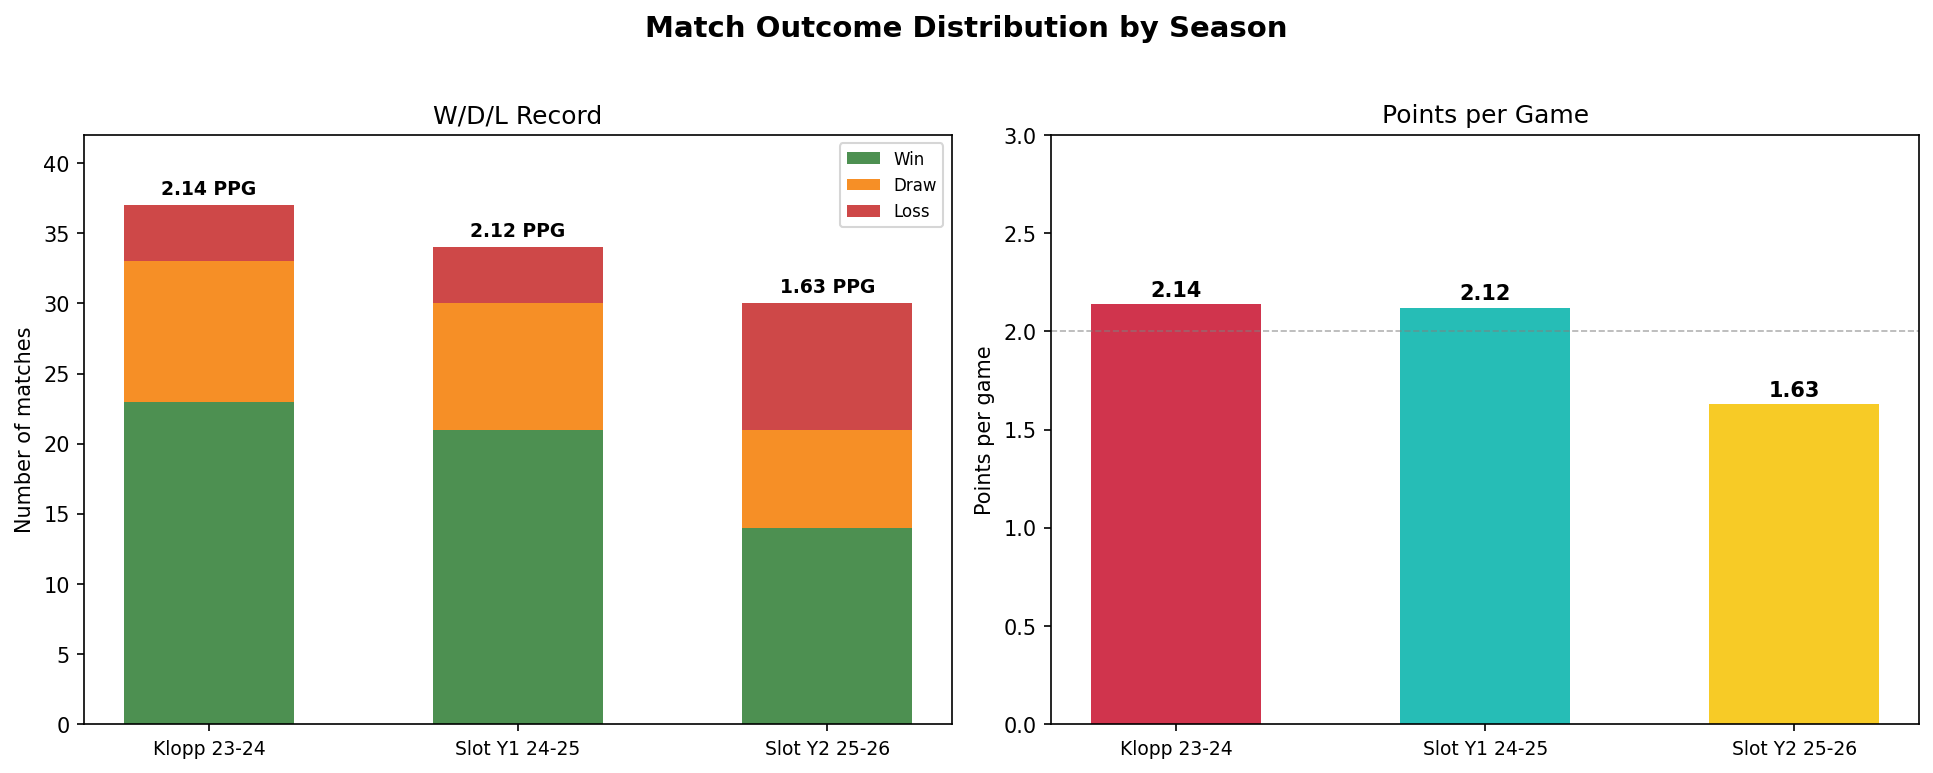
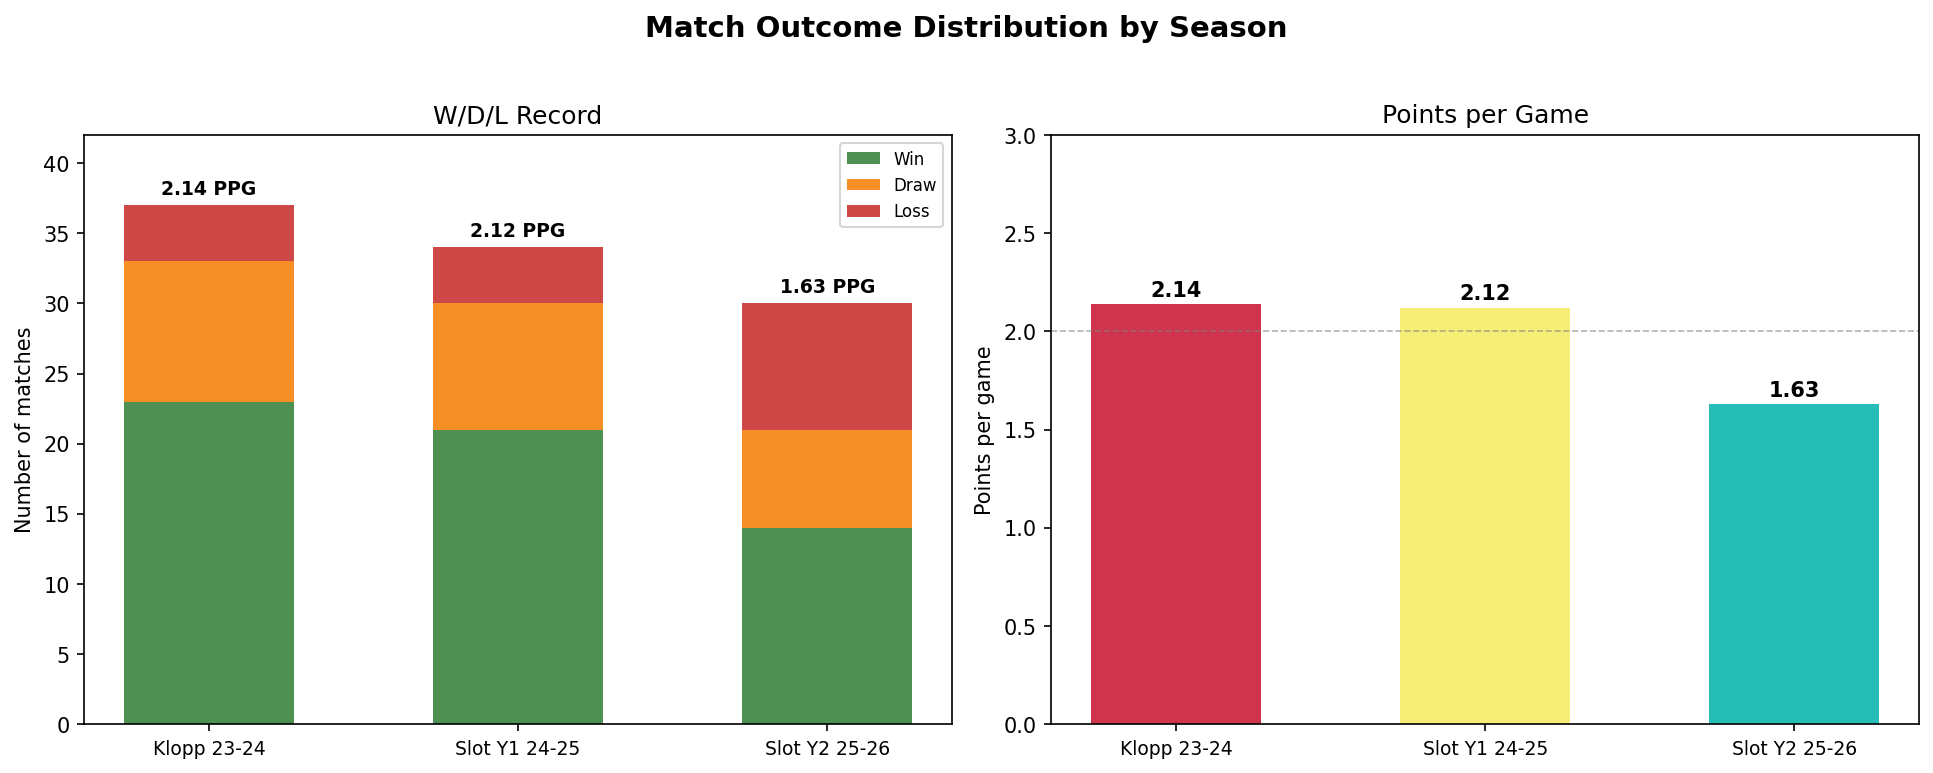
fix: address adversarial review — MW-U tests, Bonferroni threshold, colour palette, dead code
- Replace stats.ttest_ind with mannwhitneyu (mw_test from notebook_helpers)
  in scripts 01 and 02 — project standard throughout
- Fix Bonferroni threshold in script 02 game-state tests: 0.05/3 not 0.05/44
- Align SEASON_COLORS in scripts 01+02 with canonical notebook_helpers palette
  (Y1=#f6eb61, Y2=#00b2a9 — previously inverted)
- Replace dead defensive_actions double-assignment in script 03 with single
  explicit column-guard logic
- Add limitation comment on (fixture × game_state) unit of observation in
  script 02 ball-territory test

Changed region(s): [[0.7139, 0.3726, 0.8381, 0.9625], [0.8691, 0.4968, 0.9933, 0.9625]]

diff --git a/scripts/analysis/02_game_state_tactics.py b/scripts/analysis/02_game_state_tactics.py
@@ -22,13 +22,14 @@ LIVERPOOL_ID = 8
 SEASON_LABELS = {21646: "Klopp 23-24", 23614: "Slot Y1 24-25", 25583: "Slot Y2 25-26"}
 SEASON_SHORT = {21646: "Klopp", 23614: "Y1", 25583: "Y2"}
 SEASON_IDS = [21646, 23614, 25583]
-SEASON_COLORS = {21646: "#C8102E", 23614: "#00B2A9", 25583: "#F6C200"}
+SEASON_COLORS = {21646: "#c8102e", 23614: "#f6eb61", 25583: "#00b2a9"}
 STATE_COLORS = {"WIN": "#2E7D32", "DRAW": "#F57C00", "LOSS": "#C62828"}
 STATE_ORDER = ["WIN", "DRAW", "LOSS"]
 
 from liverpool_strategy.analysis.game_state import (
     get_lfc_is_home, reconstruct_game_states, get_state_at_minute, final_score
 )
+from liverpool_strategy.analysis.notebook_helpers import cohens_d, effect_label, mw_test
 
 # ── Load fixture metadata ─────────────────────────────────────────────────────
 fixture_map = pd.read_csv(METADATA_DIR / "fixture_season_mapping.csv")
@@ -345,29 +346,25 @@ print(f"Saved {FIG_DIR / 'lead_management.png'}")
 # ── Statistical tests ─────────────────────────────────────────────────────────
 print("\n=== STATISTICAL TESTS — % of match time in WIN state ===")
 
+# Bonferroni threshold for 3 game-state comparisons (WIN%, DRAW%, LOSS%)
+ALPHA_GAME_STATE = 0.05 / 3
+
 klopp_win = trans_df[trans_df["season_id"] == 21646]["pct_win"].values
 y1_win    = trans_df[trans_df["season_id"] == 23614]["pct_win"].values
 y2_win    = trans_df[trans_df["season_id"] == 25583]["pct_win"].values
 
-t, p = stats.ttest_ind(klopp_win, y2_win, equal_var=False)
-d = (np.mean(klopp_win) - np.mean(y2_win)) / np.sqrt(
-    (np.std(klopp_win, ddof=1)**2 + np.std(y2_win, ddof=1)**2) / 2
-)
+U, p, d = mw_test(klopp_win, y2_win)
 print(f"\n[CONFIRMATORY] Klopp vs Slot Y2 — % time winning")
 print(f"  Klopp: {np.mean(klopp_win):.1%} +/- {np.std(klopp_win, ddof=1):.1%}")
 print(f"  Slot Y2: {np.mean(y2_win):.1%} +/- {np.std(y2_win, ddof=1):.1%}")
-print(f"  Welch t={t:.3f}, p={p:.4f}, d={d:.2f}")
-print(f"  Conservative threshold (a/44=0.00114): {'SIGNIFICANT' if p < 0.00114 else 'not significant'}")
-print(f"  Notebook-family threshold (a/3=0.017):  {'SIGNIFICANT' if p < 0.017 else 'not significant'}")
+print(f"  Mann-Whitney U={U:.1f}, p={p:.4f}, d={d:.2f}")
+print(f"  Game-state threshold (a/3={ALPHA_GAME_STATE:.4f}): {'SIGNIFICANT' if p < ALPHA_GAME_STATE else 'not significant'}")
 
-t2, p2 = stats.ttest_ind(y1_win, y2_win, equal_var=False)
-d2 = (np.mean(y1_win) - np.mean(y2_win)) / np.sqrt(
-    (np.std(y1_win, ddof=1)**2 + np.std(y2_win, ddof=1)**2) / 2
-)
+U2, p2, d2 = mw_test(y1_win, y2_win)
 print(f"\n[EXPLORATORY] Slot Y1 vs Slot Y2 — % time winning")
 print(f"  Slot Y1: {np.mean(y1_win):.1%} +/- {np.std(y1_win, ddof=1):.1%}")
 print(f"  Slot Y2: {np.mean(y2_win):.1%} +/- {np.std(y2_win, ddof=1):.1%}")
-print(f"  Welch t={t2:.3f}, p={p2:.4f}, d={d2:.2f}")
+print(f"  Mann-Whitney U={U2:.1f}, p={p2:.4f}, d={d2:.2f}")
 print(f"  Nominal p < 0.05 -> {'directional signal' if p2 < 0.05 else 'no signal'}")
 
 klopp_loss = trans_df[trans_df["season_id"] == 21646]["pct_loss"].values
@@ -375,15 +372,12 @@ y1_loss    = trans_df[trans_df["season_id"] == 23614]["pct_loss"].values
 y2_loss    = trans_df[trans_df["season_id"] == 25583]["pct_loss"].values
 
 print("\n--- % time losing ---")
-t3, p3 = stats.ttest_ind(klopp_loss, y2_loss, equal_var=False)
-d3 = (np.mean(y2_loss) - np.mean(klopp_loss)) / np.sqrt(
-    (np.std(klopp_loss, ddof=1)**2 + np.std(y2_loss, ddof=1)**2) / 2
-)
+U3, p3, d3 = mw_test(klopp_loss, y2_loss)
 print(f"\n[CONFIRMATORY] Klopp vs Slot Y2 — % time losing")
 print(f"  Klopp: {np.mean(klopp_loss):.1%} +/- {np.std(klopp_loss, ddof=1):.1%}")
 print(f"  Slot Y2: {np.mean(y2_loss):.1%} +/- {np.std(y2_loss, ddof=1):.1%}")
-print(f"  Welch t={t3:.3f}, p={p3:.4f}, d={d3:.2f}")
-print(f"  Conservative threshold (a/44=0.00114): {'SIGNIFICANT' if p3 < 0.00114 else 'not significant'}")
+print(f"  Mann-Whitney U={U3:.1f}, p={p3:.4f}, d={d3:.2f}")
+print(f"  Game-state threshold (a/3={ALPHA_GAME_STATE:.4f}): {'SIGNIFICANT' if p3 < ALPHA_GAME_STATE else 'not significant'}")
 
 # ── Part 4: Goals by Game State ───────────────────────────────────────────────
 goal_state_records = []
@@ -551,6 +545,8 @@ fixture_zone_state = (
     .reset_index()
 )
 
+# Note: unit of observation is (fixture × game_state) — a match with WIN and DRAW intervals
+# contributes two rows. This inflates n relative to a pure per-fixture design.
 # Test: attacking_third % when winning — Klopp vs Y2
 if "attacking_third" in fixture_zone_state.columns:
     win_data = fixture_zone_state[fixture_zone_state["game_state"] == "WIN"]

diff --git a/scripts/analysis/01_statistical_comparison.py b/scripts/analysis/01_statistical_comparison.py
@@ -10,6 +10,7 @@ import matplotlib.pyplot as plt
 import matplotlib.patches as mpatches
 import seaborn as sns
 import warnings
+from liverpool_strategy.analysis.notebook_helpers import cohens_d, effect_label, mw_test
 
 warnings.filterwarnings('ignore')
 
@@ -23,7 +24,7 @@ LIVERPOOL_ID = 8
 SEASON_LABELS = {21646: "Klopp 23-24", 23614: "Slot Y1 24-25", 25583: "Slot Y2 25-26"}
 SEASON_SHORT = {21646: "Klopp", 23614: "Y1", 25583: "Y2"}
 SEASON_IDS = [21646, 23614, 25583]
-SEASON_COLORS = {21646: "#C8102E", 23614: "#00B2A9", 25583: "#F6C200"}
+SEASON_COLORS = {21646: "#c8102e", 23614: "#f6eb61", 25583: "#00b2a9"}
 
 # ── Load fixture metadata ─────────────────────────────────────────────────────
 fixture_map = pd.read_csv(METADATA_DIR / "fixture_season_mapping.csv")
@@ -60,12 +61,10 @@ print("\nSeason means (sample):")
 print(season_means.T.head(10))
 
 # ── Helper functions ──────────────────────────────────────────────────────────
-def cohen_d(a, b):
-    pooled_std = np.sqrt((np.std(a, ddof=1)**2 + np.std(b, ddof=1)**2) / 2)
-    return (np.mean(a) - np.mean(b)) / pooled_std if pooled_std > 0 else 0
+BONFERRONI_N = 44  # 44-metric family for confirmatory tests
 
 def run_tests(wide, sid_a, sid_b, label_a, label_b, stat_cols):
-    n_tests = len(stat_cols)
+    n_tests = BONFERRONI_N
     results = []
     g_a = wide[wide["season_id"] == sid_a]
     g_b = wide[wide["season_id"] == sid_b]
@@ -74,8 +73,7 @@ def run_tests(wide, sid_a, sid_b, label_a, label_b, stat_cols):
         b = g_b[col].dropna()
         if len(a) < 3 or len(b) < 3:
             continue
-        _, p = stats.ttest_ind(a, b, equal_var=False)
-        d = cohen_d(a.values, b.values)
+        U, p, d = mw_test(a.values, b.values)
         results.append({
             "metric": col,
             "mean_a": round(a.mean(), 2),
@@ -262,12 +260,9 @@ for metric, label in [
     ("mean_attack_duration_mins", "Mean Attack Duration (mins)"),
 ]:
     a_k, a_y1, a_y2 = klopp[metric].dropna(), y1[metric].dropna(), y2[metric].dropna()
-    _, p_k_y1 = stats.ttest_ind(a_k, a_y1, equal_var=False)
-    _, p_k_y2 = stats.ttest_ind(a_k, a_y2, equal_var=False)
-    _, p_y1_y2 = stats.ttest_ind(a_y1, a_y2, equal_var=False)
-    d_k_y1 = cohen_d(a_k.values, a_y1.values)
-    d_k_y2 = cohen_d(a_k.values, a_y2.values)
-    d_y1_y2 = cohen_d(a_y1.values, a_y2.values)
+    _, p_k_y1, d_k_y1 = mw_test(a_k.values, a_y1.values)
+    _, p_k_y2, d_k_y2 = mw_test(a_k.values, a_y2.values)
+    _, p_y1_y2, d_y1_y2 = mw_test(a_y1.values, a_y2.values)
     print(f"\n{label}")
     print(f"  Klopp {a_k.mean():.2f} | Y1 {a_y1.mean():.2f} | Y2 {a_y2.mean():.2f}")
     print(f"  Klopp->Y1: p={p_k_y1:.3f}, d={d_k_y1:.3f} | Klopp->Y2: p={p_k_y2:.3f}, d={d_k_y2:.3f}")

diff --git a/scripts/analysis/03_pressing_analysis.py b/scripts/analysis/03_pressing_analysis.py
@@ -75,13 +75,19 @@ fixture_metrics = pivot.pivot_table(
     aggfunc='first'
 ).reset_index()
 
-fixture_metrics['defensive_actions'] = (
-    fixture_metrics.get('tackles', pd.Series(dtype=float)).fillna(0) +
-    fixture_metrics.get('interceptions', pd.Series(dtype=float)).fillna(0)
-)
-# Fix: use column-based approach
-if 'tackles' in fixture_metrics.columns and 'interceptions' in fixture_metrics.columns:
-    fixture_metrics['defensive_actions'] = fixture_metrics['tackles'].fillna(0) + fixture_metrics['interceptions'].fillna(0)
+has_tackles = 'tackles' in fixture_metrics.columns
+has_interceptions = 'interceptions' in fixture_metrics.columns
+
+if has_tackles and has_interceptions:
+    fixture_metrics['defensive_actions'] = (
+        fixture_metrics['tackles'].fillna(0) + fixture_metrics['interceptions'].fillna(0)
+    )
+elif has_tackles:
+    fixture_metrics['defensive_actions'] = fixture_metrics['tackles'].fillna(0)
+elif has_interceptions:
+    fixture_metrics['defensive_actions'] = fixture_metrics['interceptions'].fillna(0)
+else:
+    fixture_metrics['defensive_actions'] = 0.0
 
 print(f'Fixture-level pressing metrics shape: {fixture_metrics.shape}')
 print(fixture_metrics.groupby('season')[['tackles', 'interceptions', 'fouls', 'defensive_actions']].mean().round(2))
